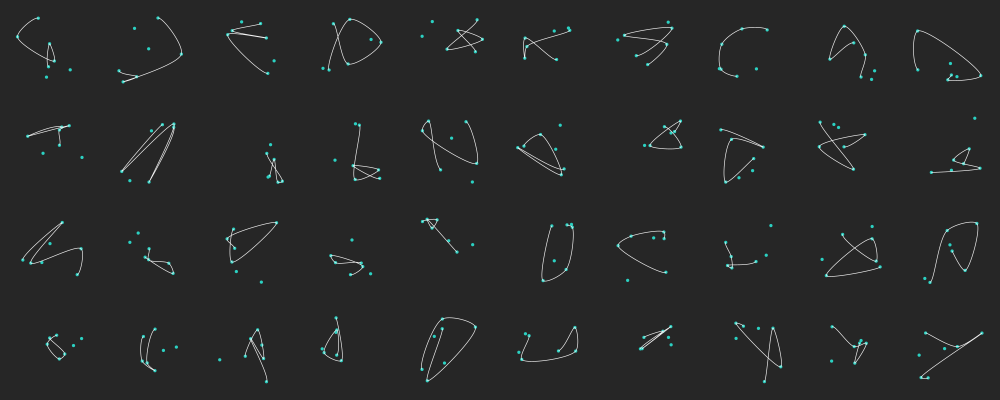
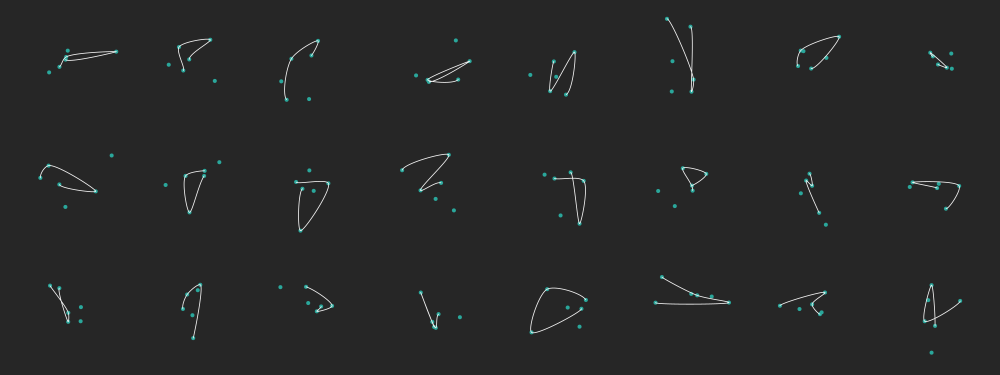
distributions

diff --git a/dev/src/main.rs b/dev/src/main.rs
@@ -4,7 +4,8 @@ mod bench;
 mod spline;
 
 use cairo::{Antialias, Context, Format, ImageSurface, LineCap};
-use rand::prelude::{Rng, SeedableRng, StdRng};
+use rand::prelude::{SeedableRng, StdRng};
+use rand_distr::{Distribution, Normal};
 use spline::{Point, Slice};
 use std::env;
 use std::f64;
@@ -34,24 +35,31 @@ const TEAL: Color = Color {
     r: 0.17,
     g: 0.82,
     b: 0.76,
-    a: 1.0,
+    a: 0.75,
 };
 
 const LINE_WIDTH: f64 = 0.01;
 const ARC_RADIUS: f64 = 0.025;
 const PI_2: f64 = f64::consts::PI * 2.0;
 
-const SCALE: f64 = 0.65;
-const OFFSET: f64 = (1.0 - SCALE) / 2.0;
+const TILE_SCALE: f64 = 0.65;
+const TILE_OFFSET: f64 = 0.5;
 
 const N_SLICES: usize = 100;
 
-fn random_points(rng: &mut StdRng, n: usize) -> Vec<Point> {
+const MEAN: f64 = 0.0;
+const STD: f64 = 0.2;
+
+fn random_points(
+    distribution: &Normal<f64>,
+    rng: &mut StdRng,
+    n: usize,
+) -> Vec<Point> {
     let mut points: Vec<Point> = Vec::with_capacity(n);
     for _ in 0..n {
         points.push(Point {
-            x: rng.gen::<f64>(),
-            y: rng.gen::<f64>(),
+            x: distribution.sample(rng),
+            y: distribution.sample(rng),
         });
     }
     points
@@ -117,8 +125,9 @@ fn parse() -> Args {
 fn main() {
     let args: Args = parse();
     let tile_res_f: f64 = f64::from(args.tile_res);
-    let scale: f64 = tile_res_f * SCALE;
+    let scale: f64 = tile_res_f * TILE_SCALE;
     let mut rng: StdRng = SeedableRng::seed_from_u64(args.seed);
+    let distrbution: Normal<f64> = Normal::new(MEAN, STD).unwrap();
     let slices: Vec<Slice> = spline::make_slices(N_SLICES);
     let inverse_tension: f64 = 1.0 - args.tension;
     let surface: ImageSurface = ImageSurface::create(
@@ -140,13 +149,13 @@ fn main() {
     context.paint();
     for i in 0..args.width {
         for j in 0..args.height {
-            let x = (f64::from(i) + OFFSET) * tile_res_f;
-            let y = (f64::from(j) + OFFSET) * tile_res_f;
+            let x = (f64::from(i) + TILE_OFFSET) * tile_res_f;
+            let y = (f64::from(j) + TILE_OFFSET) * tile_res_f;
             context.save();
             context.translate(x, y);
             context.scale(scale, scale);
             let points: Vec<Point> =
-                random_points(&mut rng, args.n_points.into());
+                random_points(&distrbution, &mut rng, args.n_points.into());
             let spline: Vec<Point> = spline::make_spline(
                 &points,
                 &slices,

diff --git a/dev/src/bench.rs b/dev/src/bench.rs
@@ -4,20 +4,22 @@ mod benches {
 
     use crate::spline;
     use rand::prelude::{SeedableRng, StdRng};
+    use rand_distr::Normal;
     use spline::{Point, Slice};
     use test::Bencher;
 
     const ALPHA: f64 = 0.5;
     const INVERSE_TENSION: f64 = 0.5;
-
     const N_POINTS: usize = 20;
-    const N_SLICES: usize = 100;
 
     #[bench]
     fn bench_spline(b: &mut Bencher) {
         let mut rng: StdRng = SeedableRng::seed_from_u64(0);
-        let points: Vec<Point> = crate::random_points(&mut rng, N_POINTS);
-        let slices: Vec<Slice> = spline::make_slices(N_SLICES);
+        let distrbution: Normal<f64> =
+            Normal::new(crate::MEAN, crate::STD).unwrap();
+        let points: Vec<Point> =
+            crate::random_points(&distrbution, &mut rng, N_POINTS);
+        let slices: Vec<Slice> = spline::make_slices(crate::N_SLICES);
         b.iter(|| {
             spline::make_spline(&points, &slices, ALPHA, INVERSE_TENSION)
         })
